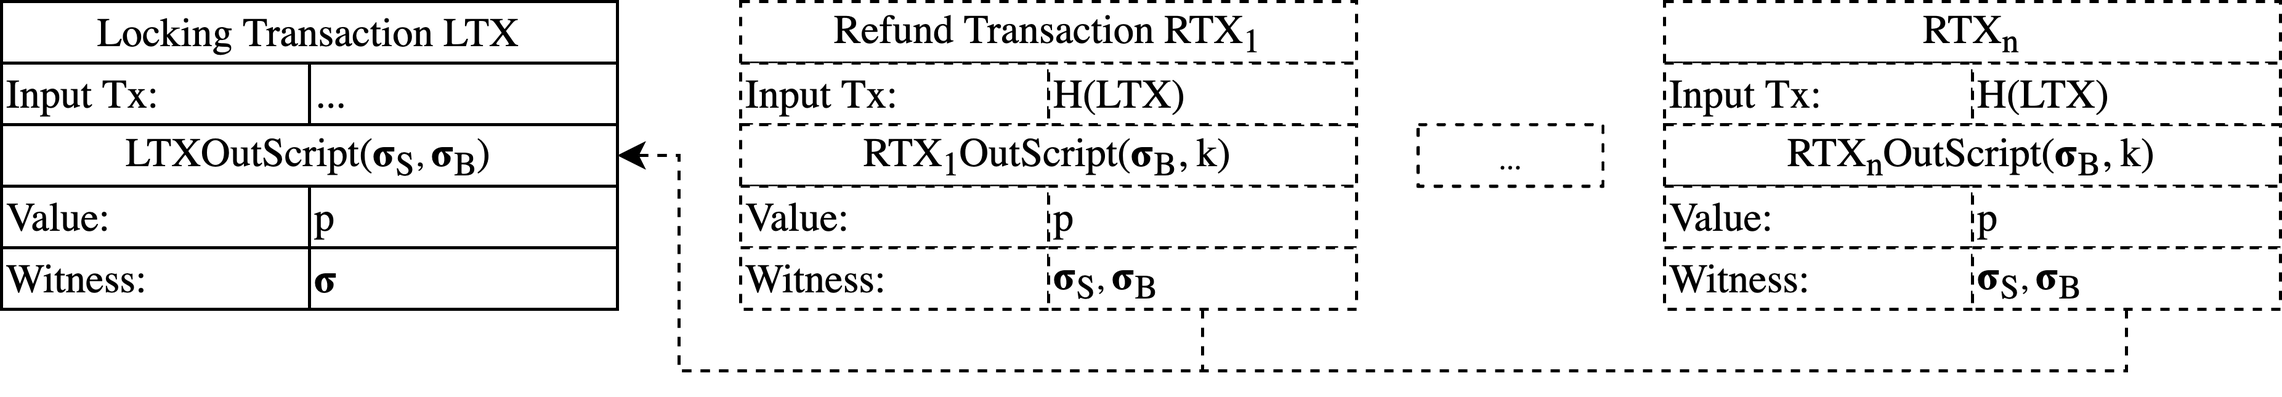
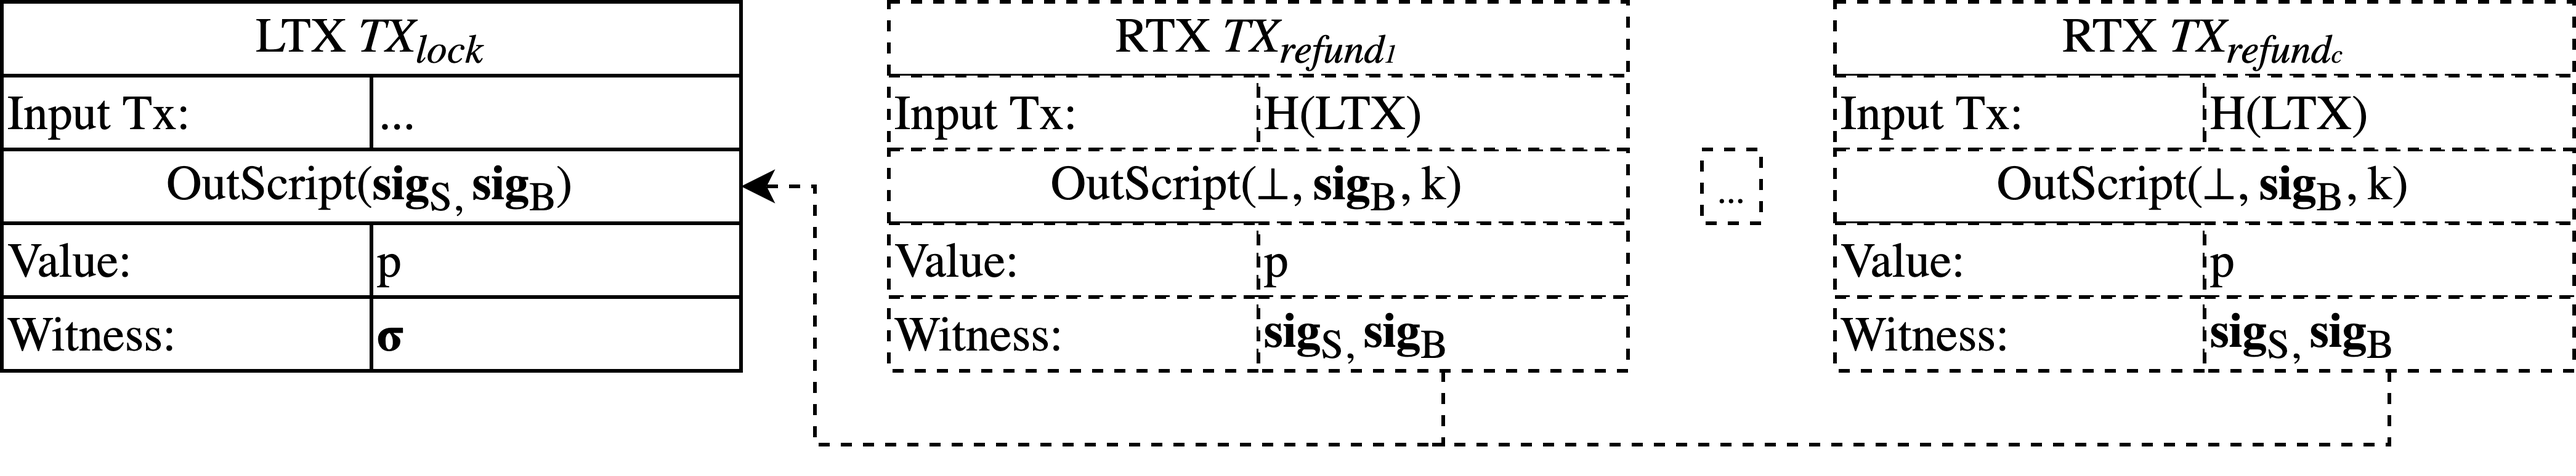
Finished the protocol description

diff --git a/main.tex b/main.tex
@@ -273,7 +273,7 @@
 		
 	\chapter{Our Construction}
 	   \label{ch:Construction}
-	   Our construction is heavily inspired by the FairSwap protocol (cf. §\ref{sec:FairSwap}). The intention is to enable the buyer to prove possible misbehavior of the seller instead of forcing the seller to prove his honesty. FairSwap is doing this with concise proofs of misbehavior validated by a single (to the exchange specific) smart contract on Ethereum. Our construction utilizes Bitcoin instead. Therefore, it is limited by the Bitcoins smart contract possibilities (cf. §\ref{sec:smartContractOptions}), most notably through its transactions' stateless nature. Hence, it is not possible to build one smart contract that can process all steps needed. We efficiently solve this by utilizing a few conditionally chained transactions. In the optimistic case, our construction requires two published transactions. The worst-case requires one additional published transaction.
+	   Our construction is heavily inspired by the FairSwap protocol (cf. §\ref{sec:FairSwap}). The intention is to enable the buyer to prove possible misbehavior of the seller instead of forcing the seller to prove his honesty. FairSwap is doing this with concise proofs of misbehavior validated by a single (to the exchange specific) smart contract on Ethereum. Our construction utilizes Bitcoin instead. Therefore, it is limited by the Bitcoins smart contract possibilities (cf. §\ref{sec:smartContractOptions}), most notably through its transactions' stateless nature. Hence, it is not possible to build one smart contract that can process all steps needed. We efficiently solve this by utilizing a few conditionally chained transactions. In the optimistic case, our construction requires two published transactions. The worst-case requires one additional published transaction. The actual exchange of the good via the ledger is reduced to a comparably small secret key through the symmetric encryption scheme (cf. §\ref{sub:SymmetricEncryptionScheme}) in order to minimize on-chain data and, therefore, transaction fees.
 	   
 	   \section{Transaction Types}
 	   \label{sec:OurTransactionTypes}
@@ -289,25 +289,9 @@
         The intention behind 1. is that a set of already (by $S$) signed unpublished transactions is spendable by $B$ with the confidence that $S$ covers the transaction's funding with published LTX (= $S$ provides a valid input transaction with LTX). Note that $S$ is in charge of which transactions can use LTX as input by his transaction-specific signatures, but $B$'s signature is ultimately required for spending.
         If funds are not used 2. enables $S$ to recover these after $t$ passed. Therefore, once the timelock expires, $B$ can no longer be confident that LTX can be used as a valid input transaction - even if a valid $sig_S$ is available to $B$. LTX is pictured in \mbox{figure \ref{fig:genLockingTx}}.
         
-        \begin{figure}
-            \begin{center}
-              \includegraphics[width=0.6\textwidth]{images/GenLockingTx.png}
-              \caption{\textsf{GenLockingTx}$(pk_S, pk_B, t, p)$}
-              \label{fig:genLockingTx}
-            \end{center}
-        \end{figure}
-        
         \subsection{Refund}
         \label{sub:RefundTx}
         The Refund Transaction (RTX) is intended to act as a form of concise proof of misbehavior. $S$ creates the transaction and implicitly commits to a (key, ciphertext) pair that results in a plaintext integrated into the out script. The script performs the symmetric encryption scheme introduced in section \ref{sub:SymmetricEncryptionScheme}. $B$ must provide a matching key to decrypt the ciphertext. If the result does not match with the integrated plaintext, the misbehavior of $S$ is proven, and $B$ can spend the transaction. Notably, RTX is unspendable if $S$ behaved honestly. Therefore, RTX also uses a timelock $t$ to enable the recovery of locked coins, equivalent to spending option 2. of LTX (cf. §\ref{sub:LockingTx}). RTX is pictured in \mbox{figure \ref{fig:genRefundTx}}.   
-        
-        \begin{figure}
-            \begin{center}
-              \includegraphics[width=0.6\textwidth]{images/GenRefundTx.png}
-              \caption{\textsf{GenRefundTx}$(hash_{inputTx}, pk_S, pk_B, hash_{key}, hash_{data}, enc_{data}, i, t, p)$}
-              \label{fig:genRefundTx}
-            \end{center}
-        \end{figure}
         
         \subsection{Key Exchange}
         \label{sub:KeyExchangeTx}
@@ -315,7 +299,23 @@
         
         \begin{figure}
             \begin{center}
-              \includegraphics[width=0.6\textwidth]{images/GenKeyExchangeTx.png}
+              \includegraphics[width=0.61\textwidth]{images/GenLockingTx.png}
+              \caption{\textsf{GenLockingTx}$(pk_S, pk_B, t, p)$}
+              \label{fig:genLockingTx}
+            \end{center}
+        \end{figure}
+        
+        \begin{figure}
+            \begin{center}
+              \includegraphics[width=0.61\textwidth]{images/GenRefundTx.png}
+              \caption{\textsf{GenRefundTx}$(hash_{inputTx}, pk_S, pk_B, hash_{key}, hash_{data}, enc_{data}, i, t, p)$}
+              \label{fig:genRefundTx}
+            \end{center}
+        \end{figure}
+        
+        \begin{figure}
+            \begin{center}
+              \includegraphics[width=0.61\textwidth]{images/GenKeyExchangeTx.png}
               \caption{\textsf{GenKeyExchangeTx}$(pk_S, pk_B, hash_{key}, t, p)$}
               \label{fig:genKeyExchangeTx}
             \end{center}
@@ -376,14 +376,10 @@
                 $l_i$ = $leaf_i$($M_x$)\;
                 $TX_i$ $\leftarrow$ \textsf{GenRefundTx($hash_{tx'}, pk_S, pk_B, hash_k, l_i,\textsf{ex}_i, i, t, p$)}\;
                 }
-                
                 \textbf{TX'} $ = ( TX_1, ..., TX_c)$\;
-                
                 \If{\normalfont{\textbf{TX'} \neq \textbf{TX}}}{
-                \Return $\textsf{false}$\;
-                }
-                \Return $\textsf{true}$\;
-                
+                \Return $\textsf{false}$\;}
+                \Return $\textsf{true}$;
                 \caption{\\\mbox{\textsf{ConsistencyCheck(}\textbf{TX}\textsf{$, hash_{tx'}, pk_S, pk_B, hash_{k}, M_x, \textbf{\textsf{ex}}, t, p$)}}}
             \end{algorithm}
         \end{minipage}    
@@ -392,11 +388,11 @@
         \newpage
         
         \section{Protocol Description}
-        We realize the exchange of a product $x$ between seller $S$ and the buyer $B$ for price $p$ in protocol 1[]. For the exchange, $x$ is split up into $c$ chunks of data. We assume that $|x| = m*c $ where $m$ is representing the size of each chunk. At the beginning of the protocol, the Merkle tree of $x$ ($M_x$) is available to both parties as public knowledge. The Merkle tree leaves are the hashed chunks of $x$. Therefore, $B$ does not learn anything about $x$, besides its size. (Note that $M_x$ differs for the same $x$ if a different split $c$ is chosen.) Additionally, three (to the start time of the protocol) relative timelocks $t_{lock}, t_{refund}, t_{claim}$ are known to both parties. We require that $t_{lock} > t_{refund} > t_{claim}$. \\\\
-        To encrypt $x$, S creates a new secret key $k$ and performs the Enoding routine (cf. ), which produces $ex$ (encrypted $x$) and $hash_k$ (the cryptographic hash of $k$). Then, $S$ lockes up $p$ coins via the Locking Transaction $TX_{lock}$ to eventually fund one of $i \in (1, ..., c)$ new Refund Transactions $TX_{{refund}_i}$ ($TX_{lock}$  is used as input transaction for each $TX_{{refund}_i}$. By creating $TX_{{refund}_i}$ with the correct values, $S$ makes sure that these transactions and, therefore, $TX_{lock}$ remain unspendable for $B$ (cf. []). For the next step $S$ sends all $TX_{{refund}_i}$, including $S$'s signature for the out script's, to $B$. Note that this implicitly shares $ex$ with $B$. Finally $S$ publishes $TX_{lock}$ to the ledger. \\\\
-        $B$ receives all $TX_{{refund}_i}$ and extracts $ex'$ from the out scripts. We refer to the parsed encrypted data as $ex'$ because $B$ does not know if the encrypted data contains desired $x$ (results in $M_x$). $B$ then validates all refund transactions and checks for $TX_{lock}$ on the ledger. If no protocol violation is discovered, B proceeds. The actual data is already exchanged but without $k$ not accessible for B. To attain $k$, B creates the Key Exchange Transaction $TX_{exch}$ that locks $p$ coins through $hash_k$ and publishes it to the ledger. (Note that after $t_{claim}$ $B$ can unlock the funds. \\
-        $S$ waits for $TX_{exch}$ to appear on the ledger. If this does not happen until $t_{claim}$, $S$ assumes that $B$ aborted the protocol and waits until $t_{lock}$ to claim $TX_{lock}$ and leave the protocol. This could potentially fail if $TX_{lock}$ is already spent by $B$ and implies that one of the refund transactions $TX_{{refund}_i}$ got published to the ledger. (cf. []) If this is the case, $S$ claims $TX_{{refund}_i}$. $S$ is able to do this, because $t_{refund}$ is passed at this point. If $TX_{exch}$ does appear on the ledger, $S$ claims $p$ coins through $TX_{exch}$ by providing $k$ s.t. $H(k) = hash_k$. The exchange is finished for $S$ and $S$ only needs to wait until $t_{lock}$ to claim the locked coins in $TX_{lock}$ back. \\\\
-        $B$ waits for the spending of $TX_{exch}$ by $S$ to learn $k$. If this does not happen in time (until $t_{claim}$) $B$ assumes $S$ aborted the protocol, claims $TX_{exch}$ back and aborts. Otherwise, $B$ parses $k$ and decrypts $ex'$ through the Decoding routine and attains $x'$. If the expectation ($M_x$) is met, $x' = x$ and the exchange was successful. If this is not the case, the Decoding routine outputs the index $i$ of the (first) unexpected data chunk in $x'$. This enables $B$ to publish and claim $TX_{{refund}_i}$ by providing $k$. We will show this informally in the following section. 
+        We realize the exchange of a product $\textsf{x}$ between seller S and the buyer B for price $p$ in protocol \ref{theProtocol}. In preperation for the exchange, $\textsf{x}$ is split up into $c$ chunks of data (= $\textsf{\textbf{x}}$). We assume that $|\textsf{\textbf{x}}| = m*c $ where $m$ is representing the size of each chunk. At the beginning of the protocol, the Merkle tree of $\textsf{\textbf{x}}$ ($M_x$) is available to both parties as public knowledge. The Merkle tree leaves are the hashed chunks of $\textsf{\textbf{x}}$. Therefore, B does not learn anything about $\textsf{\textbf{x}}$, besides its size. (Note that $M_x$ differs for the same $\textsf{\textbf{x}}$ if a different split $c$ is chosen.) Additionally, three (to the start time of the protocol) relative timelocks $t_{lock}, t_{refund}, t_{claim}$ are known to both parties. We require that $t_{lock} > t_{refund} > t_{claim}$. \\\\
+        To encrypt $\textsf{\textbf{x}}$, S creates a new secret key $k$ and performs the Encoding routine, which generates $\textsf{\textbf{ex}}$ (encrypted $\textsf{\textbf{x}}$) and $hash_k$ (the cryptographic hash of $k$). Then, S lockes up $p$ coins via the Locking Transaction $TX_{lock}$ to eventually fund one of $i \in (1, ..., c)$ new Refund Transactions $TX_{{refund}_i}$. ($TX_{lock}$  is used as input transaction for each $TX_{{refund}_i}$. By creating each $TX_{{refund}_i}$ with the correct values, S makes sure that these transactions remain unspendable for B.) We will refer to the $c$ Refund Transactions as \textbf{TX$_{{refund}}$}. For the next step S sends \textbf{TX$_{{refund}}$}, including S's signature for the out script's, to B. Note that this implicitly shares $\textsf{\textbf{ex}}$ with B. Finally S publishes $TX_{lock}$ to the ledger to fully initiate the protocol's refund functionality. This is visualized in figure \ref{fig:lockingRefundTx}. \\\\
+        B receives \textbf{TX$_{{refund}}$} and extracts $\textsf{\textbf{ex}}'$ from the out scripts. We refer to the parsed encrypted data as $\textsf{\textbf{ex}}'$ because B does not know if the encrypted data contains desired $\textsf{\textbf{x}}$ (results in $M_x$). B then validates all Refund Transactions and checks for $TX_{lock}$ on the ledger. If no protocol violation is discovered, B proceeds. The actual data is already exchanged but without $k$ not accessible for B. To attain $k$, B creates the Key Exchange Transaction $TX_{exch}$ that locks $p$ coins through $hash_k$ and publishes it to the ledger. \\\\
+        S waits for $TX_{exch}$ to appear on the ledger. If this does not happen until $t_{claim}$, S assumes that B aborted the protocol and waits until $t_{lock}$ to claim $TX_{lock}$ and leave the protocol. This could potentially fail if $TX_{lock}$ is already spent by B and implies that one of the Refund Transactions in \textbf{TX$_{{refund}}$} got published to the ledger. If this is the case, S claims $TX_{{refund}_i}$. S is able to do this, because $t_{refund}$ is passed at this point. If $TX_{exch}$ does appear on the ledger, S claims $p$ coins through $TX_{exch}$ by providing $k$ s.t. $H(k) = hash_k$. The exchange is finished for S and S only needs to wait until $t_{lock}$ to claim the locked coins in $TX_{lock}$ back. \\\\
+        B waits for the spending of $TX_{exch}$ by S to learn $k$. If this does not happen in time (until $t_{claim}$) B assumes S aborted the protocol, claims $TX_{exch}$ back and aborts. Otherwise, B parses $k$ and decrypts $\textsf{\textbf{ex}}'$ through the Decoding routine and attains $\textsf{x}'$. If the expectation ($M_x$) is met, $\textsf{x}' = \textsf{x}$ and the exchange was successful. If this is not the case, the Decoding routine outputs the index $i$ of the (first) unexpected data chunk in $\textsf{x}'$. This enables B to publish and claim $TX_{{refund}_i}$ by providing $k$ to its out script. We will show this informally in the following section \ref{sec:Security}. 
 
 
         
@@ -404,23 +400,21 @@
         \begin{figure}
             \begin{center}
                 \includegraphics[width=\textwidth]{images/locking_refund_tx_figure.png}
-              \caption{$n$ refund transactions funded by one locking transaction}
+              \caption{Transaction structure of the refund functionality}
               \label{fig:lockingRefundTx}
             \end{center}
             \end{figure}
             
         
         \begin{protocol}{The Fair Exchange Protocol}
-        Let $H(\cdot)$ be an collision resistant Hash-Function, $n$ the security parameter and $m$ the data chunk size. \\
-        \textit{Public information.} $(M_x, p, pk_S, pk_B, (t_{lock}, t_{refund}, t_{claim}))$ = (\textsf{MTree}(\textsf{\textbf{x}}), price, seller pk, buyer pk, timelocks) 
+        Let $H(\cdot)$ be an collision resistant Hash-Function, $n$ the security parameter and $m$ the data chunk size. \sbline
+        \textit{Public information.} $(M_x, p, pk_S, pk_B, t_{lock}, t_{refund}, t_{claim})$
         \sbline
         \textit{Seller \normalfont{S} Input.} $(\textsf{\textbf{x}} = (\textsf{x}_1, ..., \textsf{x}_c) \in (\{0,1\}^m)^c)$
         \sbline
         \textit{Buyer \normalfont{B} Input.} $()$
         \sbline
         \textit{The protocol:}
-        \sbline
-        \textbf{Setup:}
           \begin{enumerate}
             \item Round (S)
             \begin{enumerate}
@@ -445,8 +439,7 @@
           \newcounter{enumTemp}
           \setcounter{enumTemp}{\theenumi}
           \end{enumerate}
-          
-          \textbf{Exchange:}
+
           \begin{enumerate}
           
           \begin{enumerate}
@@ -475,7 +468,6 @@
           \setcounter{enumTemp}{\theenumi}
           \end{enumerate}
           
-          \textbf{Data Evaluation:}
           \begin{enumerate}
           \setcounter{enumi}{\theenumTemp}
             \begin{enumerate}
@@ -486,13 +478,16 @@
             \end{enumerate}
             
           \end{enumerate}
+          \label{theProtocol}
         \end{protocol}
         
-        \section{Fairness Discussion}
-	    Connect the findings of the Fairness section with the actual fairness of the finish protocol.
-	    
-	    \section{Security}
+        \section{Security}
+        \label{sec:Security}
 	    Informal security analysis - discuss various attack vectors.
+        
+        \section{Fairness Discussion}
+        \label{sec:FairnessDiscussion}
+	    Connect the findings of the Fairness section with the actual fairness of the finish protocol.
 	    
 	\chapter{Implementation}
 	    TODO \\
